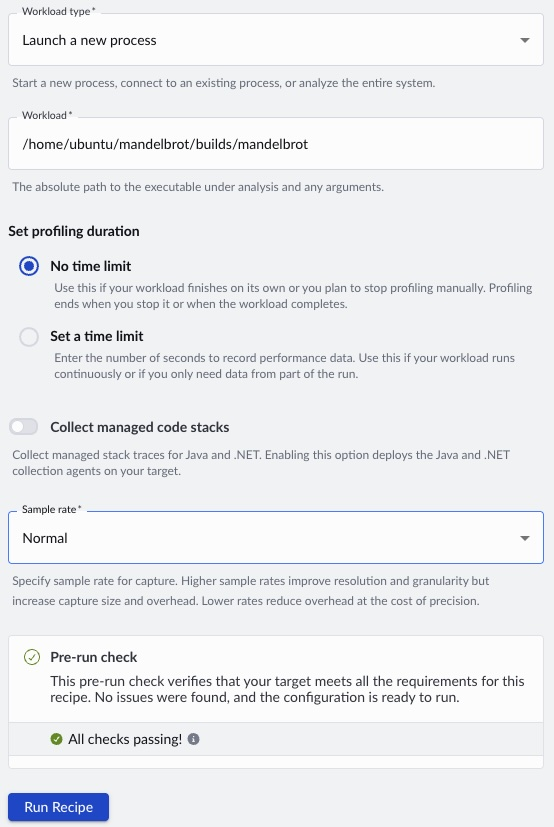
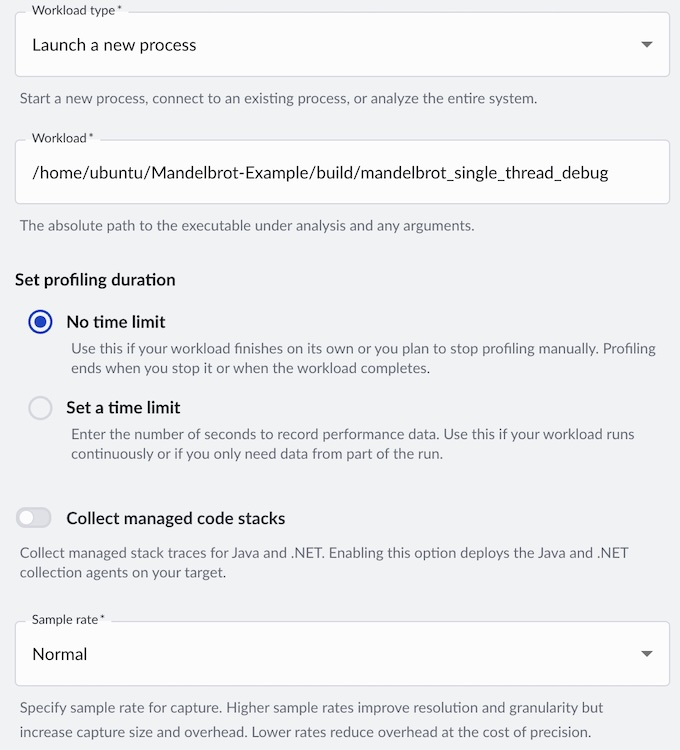
improved flow by replacing build script and branches with a single Makefile

diff --git a/content/learning-paths/servers-and-cloud-computing/cpu_hotspot_performix/how-to-4.md b/content/learning-paths/servers-and-cloud-computing/cpu_hotspot_performix/how-to-4.md
@@ -23,7 +23,7 @@ Looking at the `Mandelbrot::getIterations` function,  there are some obvious way
 ### Optimization 1 - Limiting Loop Boundary
 
 
-We can see that the number of iterations is of the absolute value is limited by the loop boundary, MAX_ITERATIONS. Our first optimization could be to reduce MAX_ITERATIONS. This is defined as 1024 a static const integer in the `Mandelbrot.h` header. We could half this to 512 and assess the perceived image quality on our fractal.
+We can see that the number of iterations is of the absolute value is limited by the loop boundary, MAX_ITERATIONS. Our first optimization could be to reduce MAX_ITERATIONS. This is defined as 1024 a static const integer in the `include/Mandelbrot.h` header. We could half this to 512 and assess the perceived image quality on our fractal.
 
 ```cpp
 public:
@@ -32,10 +32,11 @@ public:
 ...
 ```
 
-On the remote server, reduce `MAX_ITERATIONS` in `Mandelbrot.h` and rename the output file string in `main.cpp` to something else and rebuild the binary with the following command.
+On the remote server, reduce `MAX_ITERATIONS` in `Mandelbrot.h`, rename the output file string in `src/main_single_thread.cpp` to emphasis the reduced loop count, then rebuild and runthe binary with the following command.
 
 ```bash
-./build.sh
+make clean && make single_thread DEBUG=1
+./build/mandelbrot_single_thread_debug
 ```
 
 Next, click on the refresh icon in the top right to rerun the recipe. Next we select the comparison mode to view differences in the run. Navigating to the 'Run Details' tab, we observe a reducion in run duration from 1m 0s to 0m 32s, almost proportional to the reduction in `MAX_ITERATIONS`. However, we need to see if the tradeoff between image quality and runtime was worth it. 
@@ -48,21 +49,15 @@ Looking at the change in image quality, there is neglible difference in perceive
 
 Fortunately, our loop does not contain any loop-carried dependencies, where the result of an iterations depends on a future or previous iteration. As such we can parallelize our hot function to fun on multiple threads if our CPU has multiple cores. 
 
-The repository contains a parallel version in the main branch. 
-
-```bash
-git checkout main
-```
-
-This branch parallelized the `Mandelbrot::draw` function, which is earlier function in the stack that eventually calls the `__hypot` function. 
+This branch parallelized the `Mandelbrot::draw` function in `src/mandelbrot_parallel.cpp`, which is earlier function in the stack that eventually calls the `__hypot` function. Please view the source code if you would like to understand how we parallelized this function using the `<thread>` standard library.
 
 Build the example, this creates a binary `./builds/mandelbrot-parallel` which takes in a numerical command line arguments to set the number of threads.
 
 ```bash
-./build.sh
+make clean && make parallel DEBUG=1
 ```
 
-Rerun the recipe with the new binary from Arm Performix running on the host. 
+Rerun the cpu hotspot recipe using the new binary, selecting an appropriate thread count for your system, for example, 32 threads on a 32-core CPU.(`./build/mandelbrot_parallel_debug 32`).
 
 To assess the change, we can compare with a previous run. Looking under the `Run Details` tab, we can see the execution time has reduced further from 0m 32s to 7s with 32 threads.
 
@@ -76,7 +71,7 @@ The percentage point of samples has not changed significantly, but we see with 6
 
 ### (Optional Challenge) Additional optimizations
 
-You may have noticed our build script uses the `-O0` flag, which ensures the compiler does not add any additional optimizations. You can experiment with additional optimization levels, loop boundary sizes and threads. Please see our learning path introducing [basic compiler flags](https://learn.arm.com/learning-paths/servers-and-cloud-computing/cplusplus_compilers_flags/) for more information. Additionally, you may wish to look at vectorized libraries that could replace the hypotenuse function in `libm`, such as the [Arm Performance Libraries](https://developer.arm.com/documentation/101004/2601/Arm-Performance-Libraries-Math-Functions/Arm-Performance-Libraries-Vector-Math-Functions--Accuracy-Table).
+You may have noticed our `Makefile` uses the `-O0` flag when in debug mode. Debug mode ensures the compiler does not add any additional optimizations. You can experiment with additional optimization levels, loop boundary sizes and threads. Please see our learning path introducing [basic compiler flags](https://learn.arm.com/learning-paths/servers-and-cloud-computing/cplusplus_compilers_flags/) for more information. Additionally, you may wish to look at vectorized libraries that could replace the hypotenuse function in `libm`, such as the [Arm Performance Libraries](https://developer.arm.com/documentation/101004/2601/Arm-Performance-Libraries-Math-Functions/Arm-Performance-Libraries-Vector-Math-Functions--Accuracy-Table).
 
 
 ## Summary

diff --git a/content/learning-paths/servers-and-cloud-computing/cpu_hotspot_performix/how-to-3.md b/content/learning-paths/servers-and-cloud-computing/cpu_hotspot_performix/how-to-3.md
@@ -8,7 +8,7 @@ layout: learningpathall
 
 ## Run CPU Cycle Hotspot Recipe
 
-As shown in the `main.cpp` file below, the program generates a 1920×1080 bitmap image of our fractal. To identify performance bottlenecks, we’ll run the CPU Cycle Hotspot recipe in Arm Performix (APX). APX uses sampling to estimate where the CPU spends most of its time, allowing it to highlight the hottest functions—especially useful in larger applications where it isn’t obvious ahead of time which functions will dominate runtime.
+As shown in the `src/main_single_thread.cpp` file below, the program generates a 1920×1080 bitmap image of our fractal. To identify performance bottlenecks, we’ll run the CPU Cycle Hotspot recipe in Arm Performix (APX). APX uses sampling to estimate where the CPU spends most of its time, allowing it to highlight the hottest functions—especially useful in larger applications where it isn’t obvious ahead of time which functions will dominate runtime.
 
 **Please Note**: You will need to replace the first string argument in the `myplot.draw()` function with the absolute path to the image folder and rebuild the application. If not, the image will be written to the `/tmp/atperf/tools/atperf-agent` directory from where the binary is run. As the name suggests, this folder is periodically deleted. 
 
@@ -18,10 +18,13 @@ As shown in the `main.cpp` file below, the program generates a 1920×1080 bitmap
 
 using namespace std;
 
-int main(){
+int main(int argc, char* argv[]){
 
-    Mandelbrot::Mandelbrot myplot(1920, 1080);
-    myplot.draw("./images/green.bmp", Mandelbrot::Mandelbrot::GREEN);
+    const int NUM_THREADS = 1;
+    std::cout << "Number of Threads = " << NUM_THREADS << std::endl;
+
+    Mandelbrot::Mandelbrot myplot(1920, 1080, NUM_THREADS);
+    myplot.draw("/home/ec2-user/Mandelbrot-final/Mandelbrot-Example/images/Green-Parallel-512.bmp", Mandelbrot::Mandelbrot::GREEN);
 
     return 0;
 }
@@ -52,5 +55,5 @@ To understand deeper, we can map the the lines of source code to the functions. 
 
 Finally, looking in our images directory we can see the bitmap fractal.
 
-![mandelbrot](./plot-1-thread-MAX_ITERATIONS.jpg)
+![mandelbrot](./plot-1-thread-max-iterations.jpg)
 

diff --git a/content/learning-paths/servers-and-cloud-computing/cpu_hotspot_performix/how-to-2.md b/content/learning-paths/servers-and-cloud-computing/cpu_hotspot_performix/how-to-2.md
@@ -26,19 +26,18 @@ Please refer to the [installation guide](https://learn.arm.com/install-guides/at
 Next, connect to the remote server, for example using SSH or VisualStudio Code, and clone the Mandelbrot repository. This is available under the [Arm Education License](https://github.com/arm-university/Mandelbrot-Example?tab=License-1-ov-file) for teaching and learning. Create a new directory where you will store and build this example. Next, run the commands below.
 
 ```bash
-git clone https://github.com/arm-university/Mandelbrot-Example.git
-cd Mandelbrot-Example && mkdir images builds
-git checkout single-thread
+git clone https://github.com/arm-education/Mandelbrot-Example
+cd Mandelbrot-Example && mkdir -p images build
 ```
 
-Install a C++ compiler, for example using your operating system's package manager.
+Install a C++ compiler and the make tool, for example using your operating system's package manager.
 
 ```bash
-sudo dnf update && sudo dnf install g++ gcc
+sudo dnf update && sudo dnf install g++ gcc make
 ```
 
-Build the application. 
+Build the application with the following command. This creates a executable named `mandelbrot_single_thread_debug` in the build directory.
 
 ```bash
-./build.sh
+make single_thread DEBUG=1
 ```
